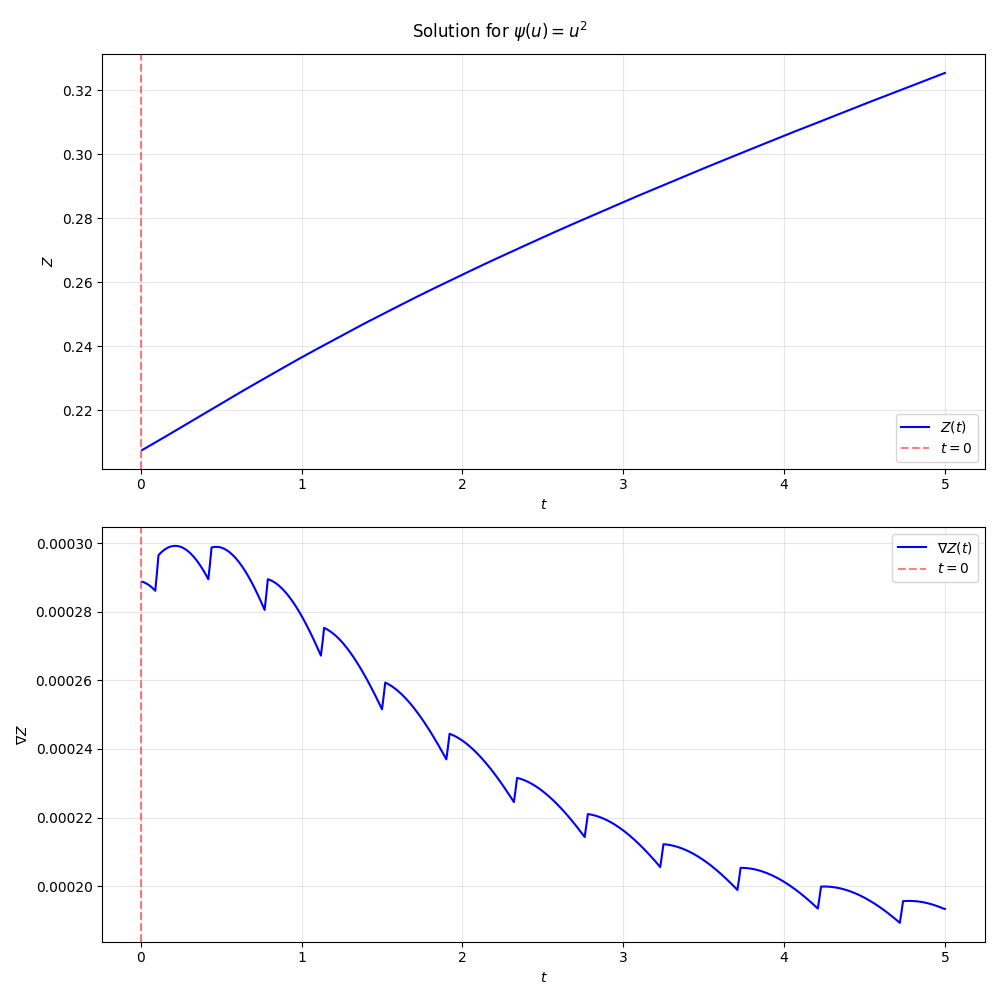
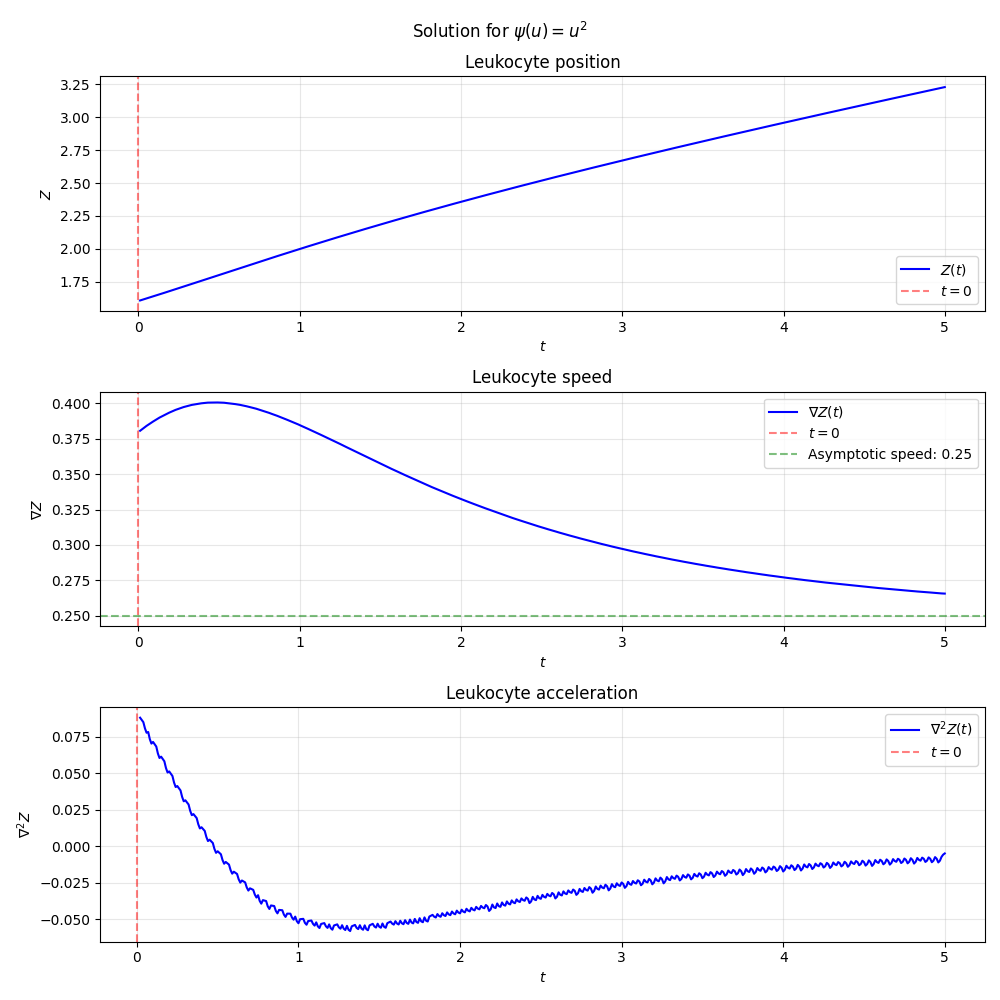
acceleration implemented

diff --git a/residence_time_opt.py b/residence_time_opt.py
@@ -125,7 +125,7 @@ class VolterraSolver:
     def residual(self, z_n: np.ndarray, n: int) -> np.ndarray:
         
         res = self.psi(z_n - self.X_grid) * self.A 
-        res = np.sum(res) * self.delta_x
+        res = np.sum(res) #* self.delta_x
         res -= self.f_func(n * self.h)
         
         return res
@@ -192,9 +192,11 @@ def main():
     delta_x = 0.01
     N_x = 600
 
-    decay_rate = 0.5
-    f_amplitude = 9.0
-    stiffness = 150000
+    decay_rate = 0.5 #lambda in our math
+    f_amplitude = 1 #9.0 #c in our math. 
+    stiffness = 1 #150000
+
+    asymptotic_speed = (f_amplitude * decay_rate**3 / (2*stiffness))**(1/2)
 
     file_name = "outputs/residence_time_opt"
     
@@ -232,26 +234,40 @@ def main():
     )
     
     t, Z = solver.solve()
-    speed = np.gradient(Z, axis=0)
+    speed = np.gradient(Z, h, axis=0)
+    acceleration = np.gradient(speed, h, axis=0)
+    #remove past history for better plotting
+    t, Z, speed, acceleration = t[N+1:], Z[N+1:], speed[N+1:], acceleration[N+1:]
     
 
     # Plot    
     
-    fig, axes = plt.subplots(2, 1, figsize=(10, 10))
+    fig, axes = plt.subplots(3, 1, figsize=(10, 10))
     
-    axes[0].plot(t[N+1:], Z[N+1:], 'b-', linewidth=1.5, label=f'$Z(t)$')
+    axes[0].plot(t, Z, 'b-', linewidth=1.5, label=f'$Z(t)$')
     axes[0].axvline(x=0, color='r', linestyle='--', alpha=0.5, label='$t=0$')
     axes[0].set_xlabel('$t$')
     axes[0].set_ylabel('$Z$')
     axes[0].legend()
     axes[0].grid(True, alpha=0.3)
+    axes[0].set_title("Leukocyte position")
 
-    axes[1].plot(t[N+1:], speed[N+1:], 'b-', linewidth=1.5, label=f'$\\nabla Z(t)$')
+    axes[1].plot(t, speed, 'b-', linewidth=1.5, label=f'$\\nabla Z(t)$')
     axes[1].axvline(x=0, color='r', linestyle='--', alpha=0.5, label='$t=0$')
+    axes[1].axhline(y=asymptotic_speed, color='green', linestyle='--', alpha=0.5, label=f'Asymptotic speed: {round(asymptotic_speed, 3)}')
     axes[1].set_xlabel('$t$')
     axes[1].set_ylabel(f'$\\nabla Z$')
     axes[1].legend()
     axes[1].grid(True, alpha=0.3)
+    axes[1].set_title("Leukocyte speed")
+
+    axes[2].plot(t[1:], acceleration[1:], 'b-', linewidth=1.5, label=f'$\\nabla^2 Z(t)$')
+    axes[2].axvline(x=0, color='r', linestyle='--', alpha=0.5, label='$t=0$')
+    axes[2].set_xlabel('$t$')
+    axes[2].set_ylabel(f'$\\nabla^2 Z$')
+    axes[2].legend()
+    axes[2].grid(True, alpha=0.3)
+    axes[2].set_title("Leukocyte acceleration")
  
     plt.suptitle(f'Solution for $\\psi(u) = u^{{{alpha}}}$')
     plt.tight_layout()
